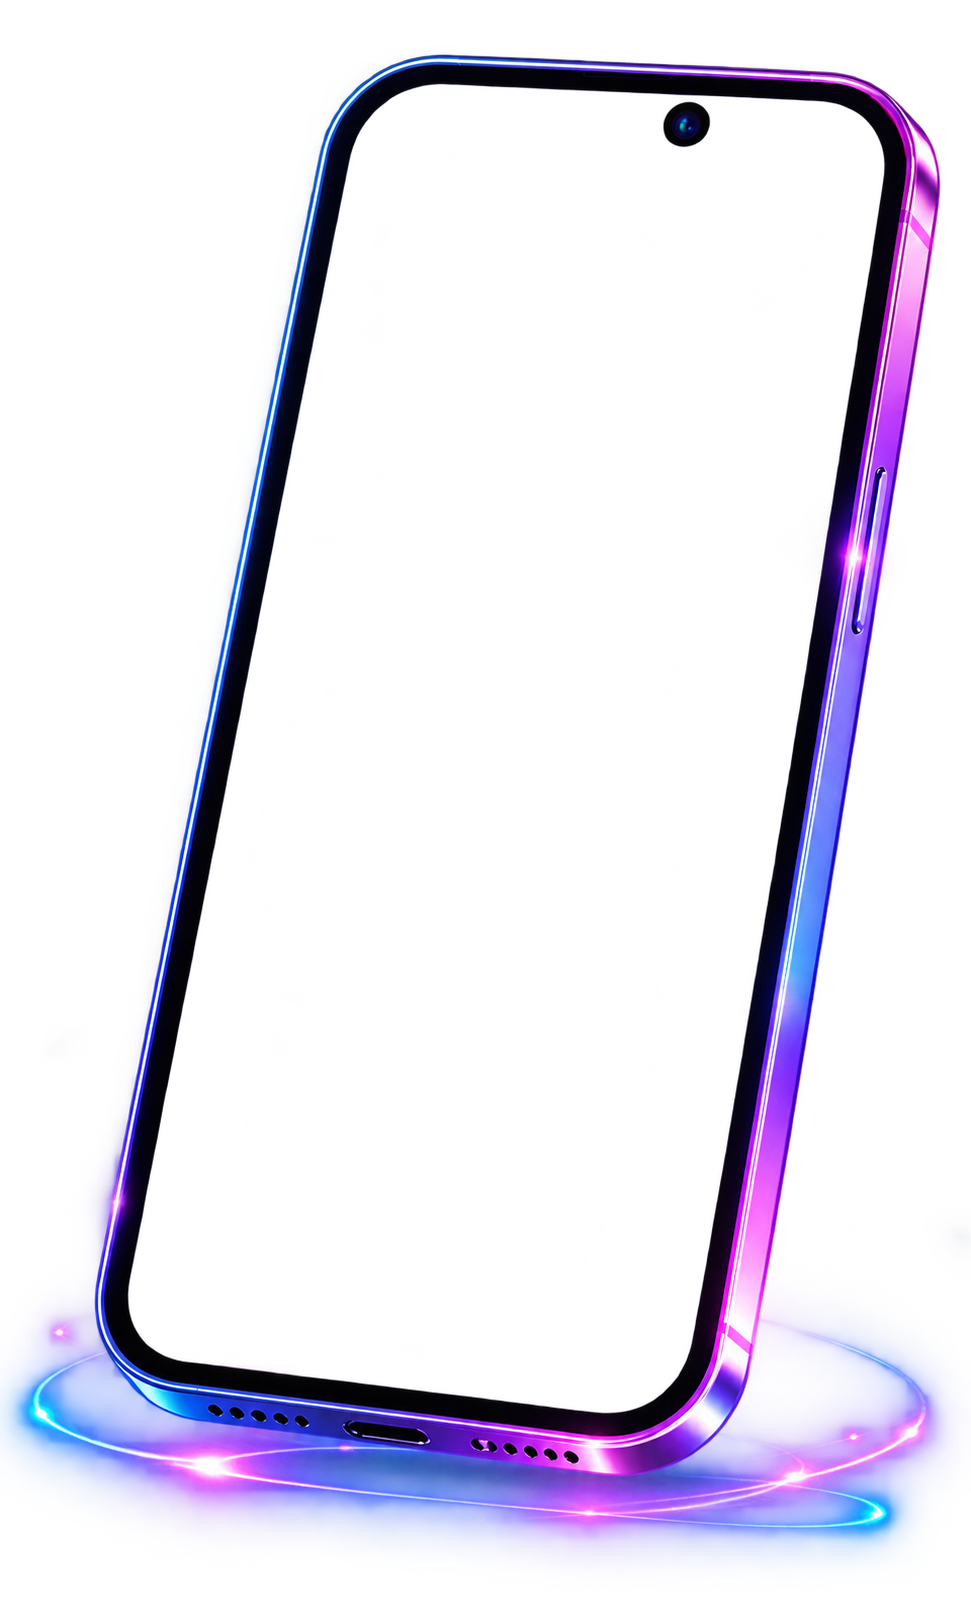
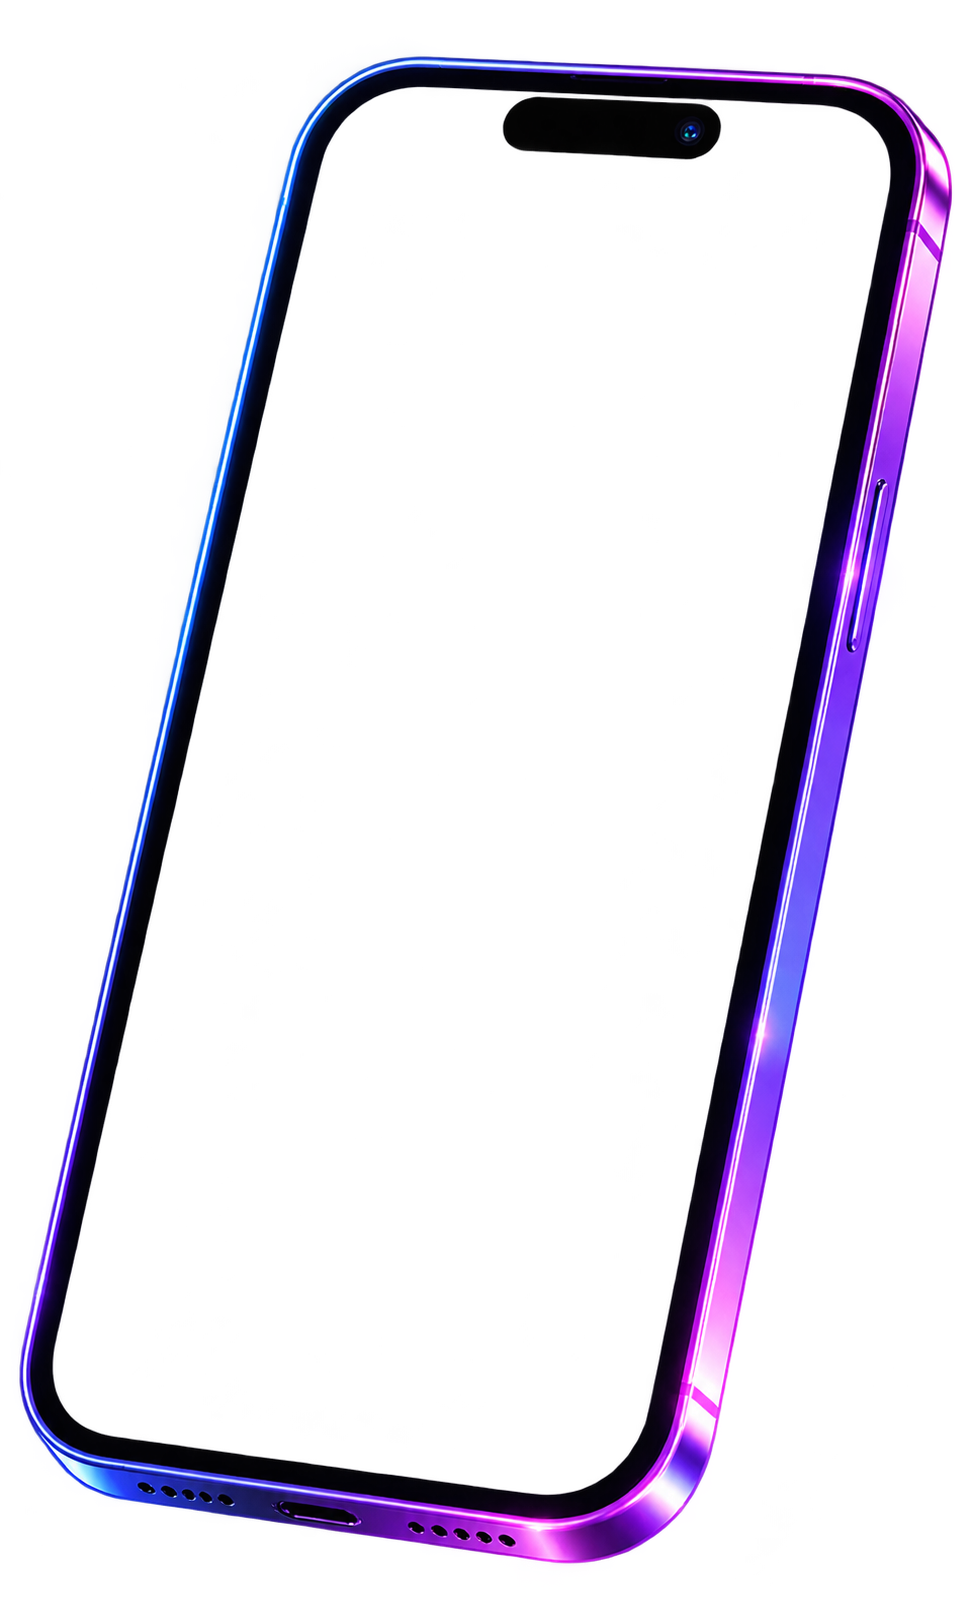
Hero: revert to the original phone frame
phone_border.png is back to the original dynamic-island frame, so restore
its measured screen corners and drop the alternate frame file.

Changed region(s): [[0.0, 0.0309, 0.9887, 0.9883]]

diff --git a/src/components/sections/hero/geometry.ts b/src/components/sections/hero/geometry.ts
@@ -43,10 +43,10 @@ export const PHONE_H = (PHONE.w * FRAME_H) / FRAME_W;
  * (TL, TR, BR, BL — frame px).
  */
 const SCREEN_QUAD: [number, number][] = [
-  [363.1, 80.6],
-  [896.5, 104.3],
-  [680.6, 1421.7],
-  [115.5, 1353.9],
+  [337.7, 83.5],
+  [904.7, 108.7],
+  [629.2, 1505.7],
+  [35.7, 1425.9],
 ];
 
 /** Lock-screen layout size (CSS px) before it is projected into the opening. */
